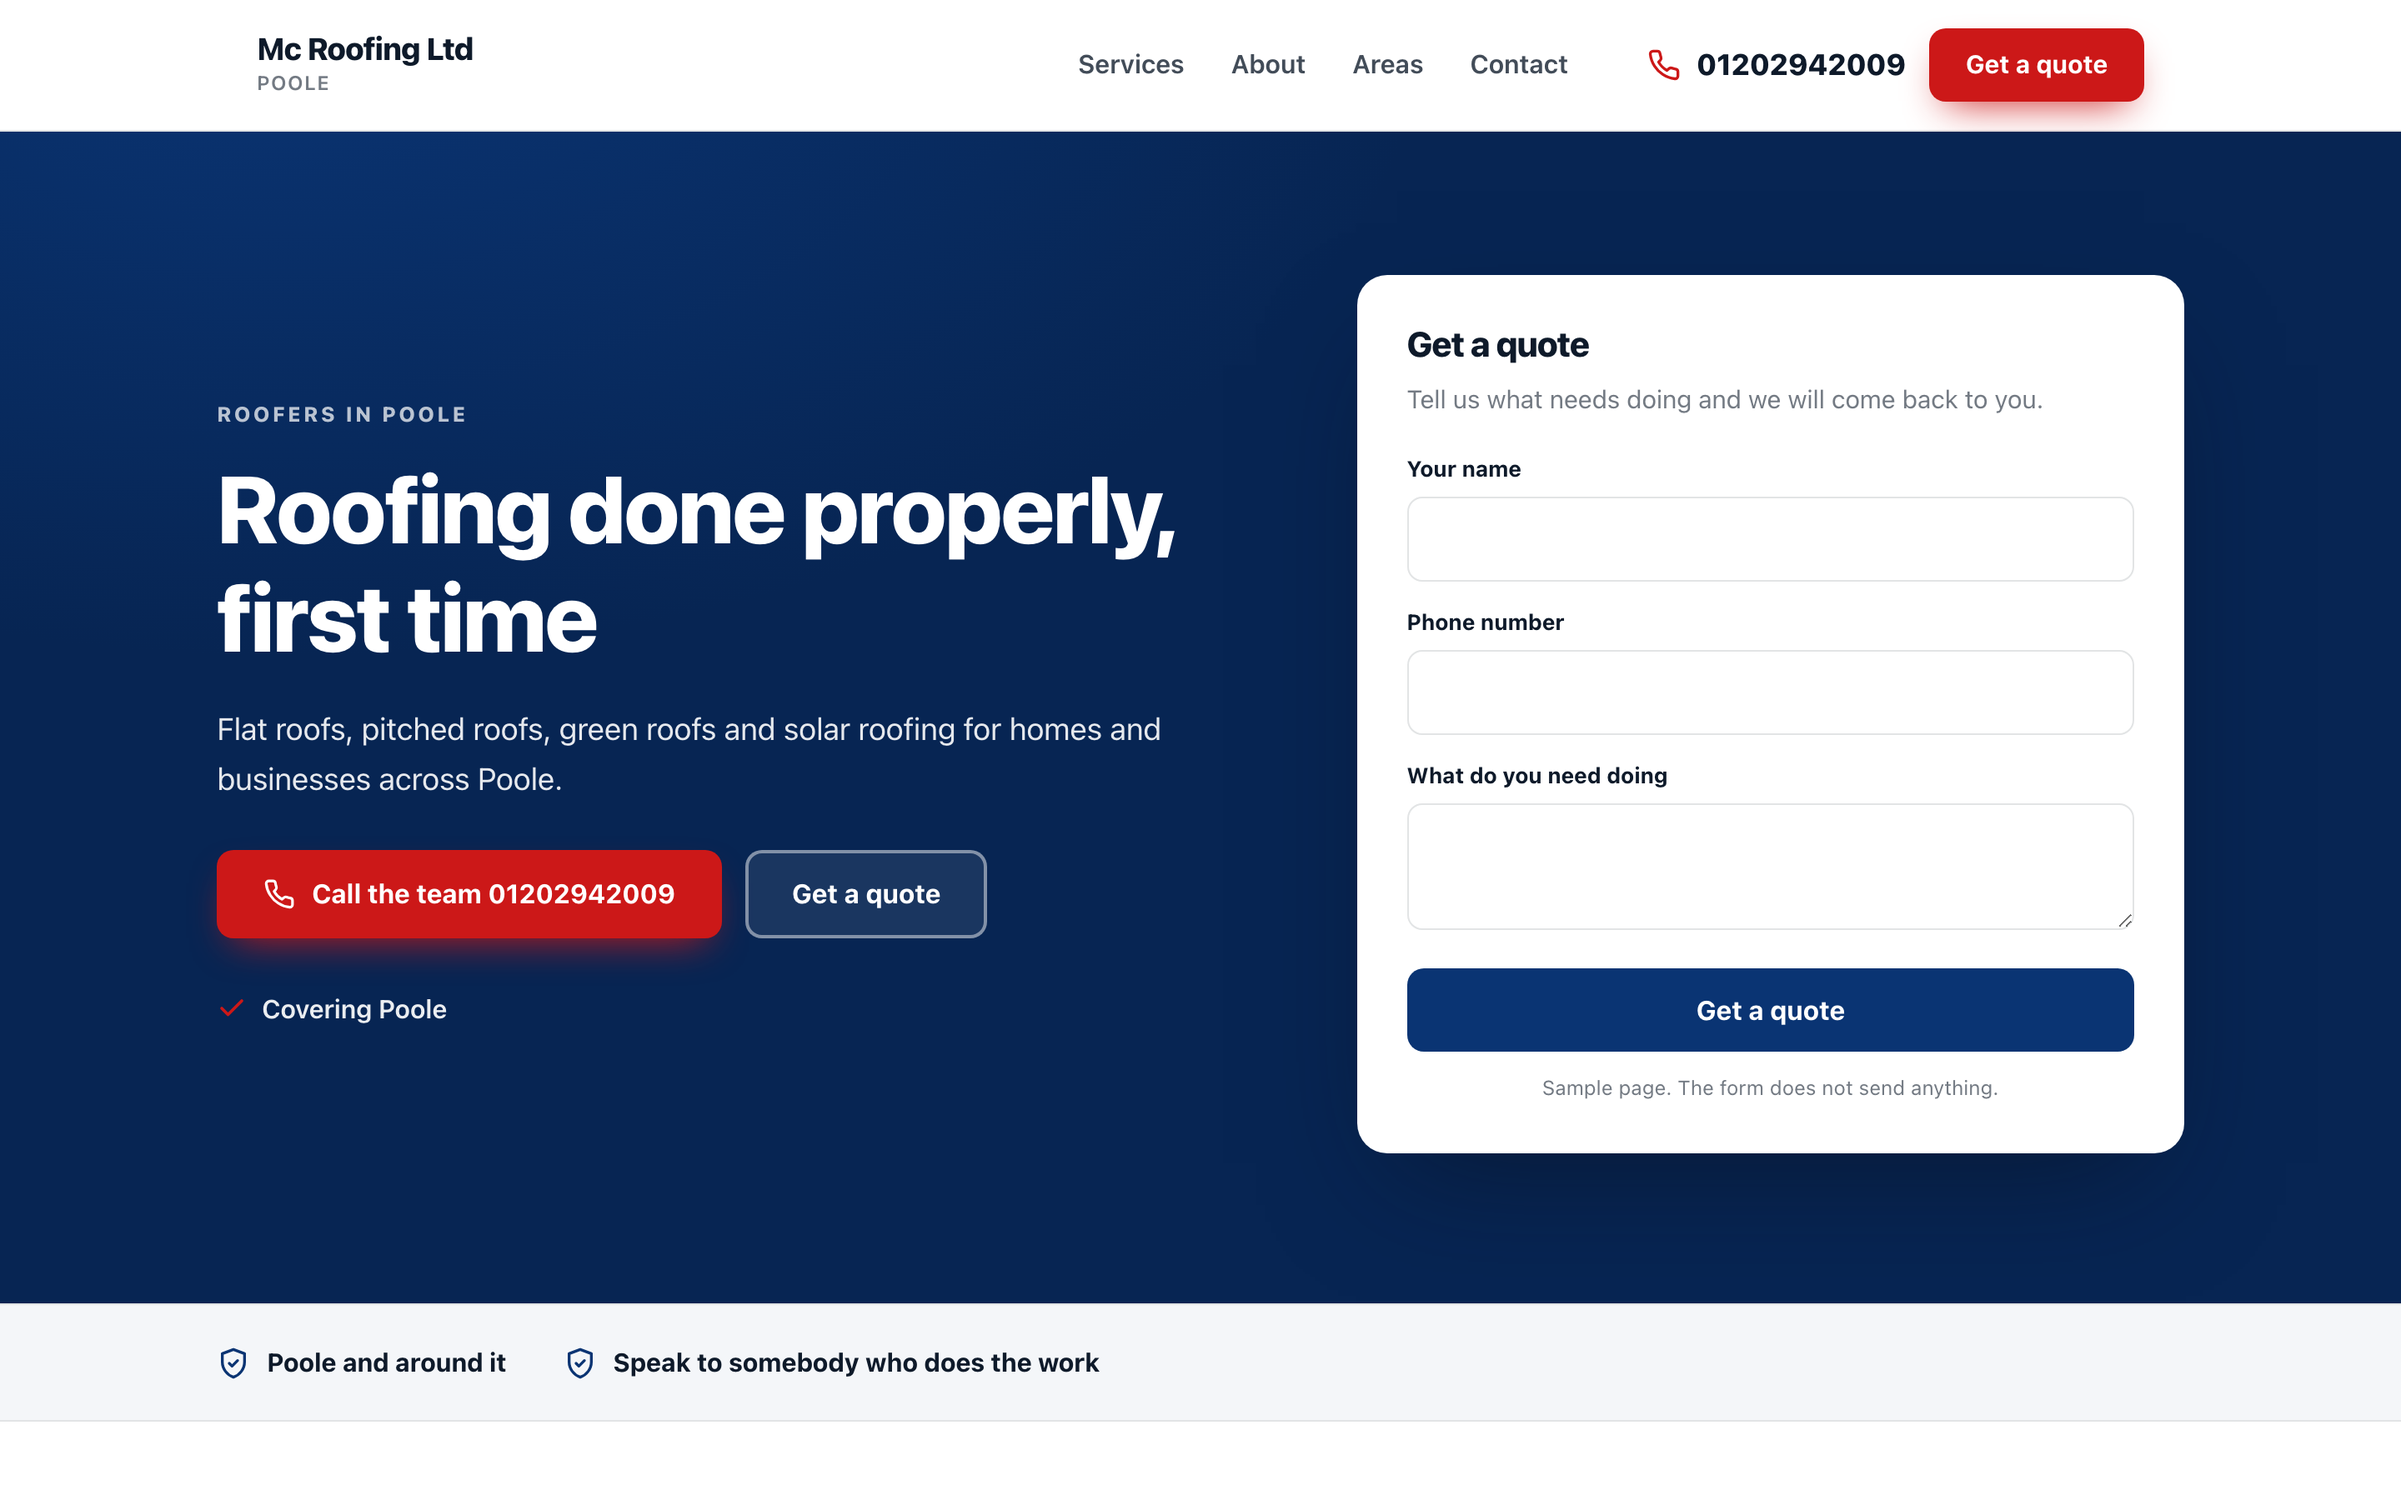
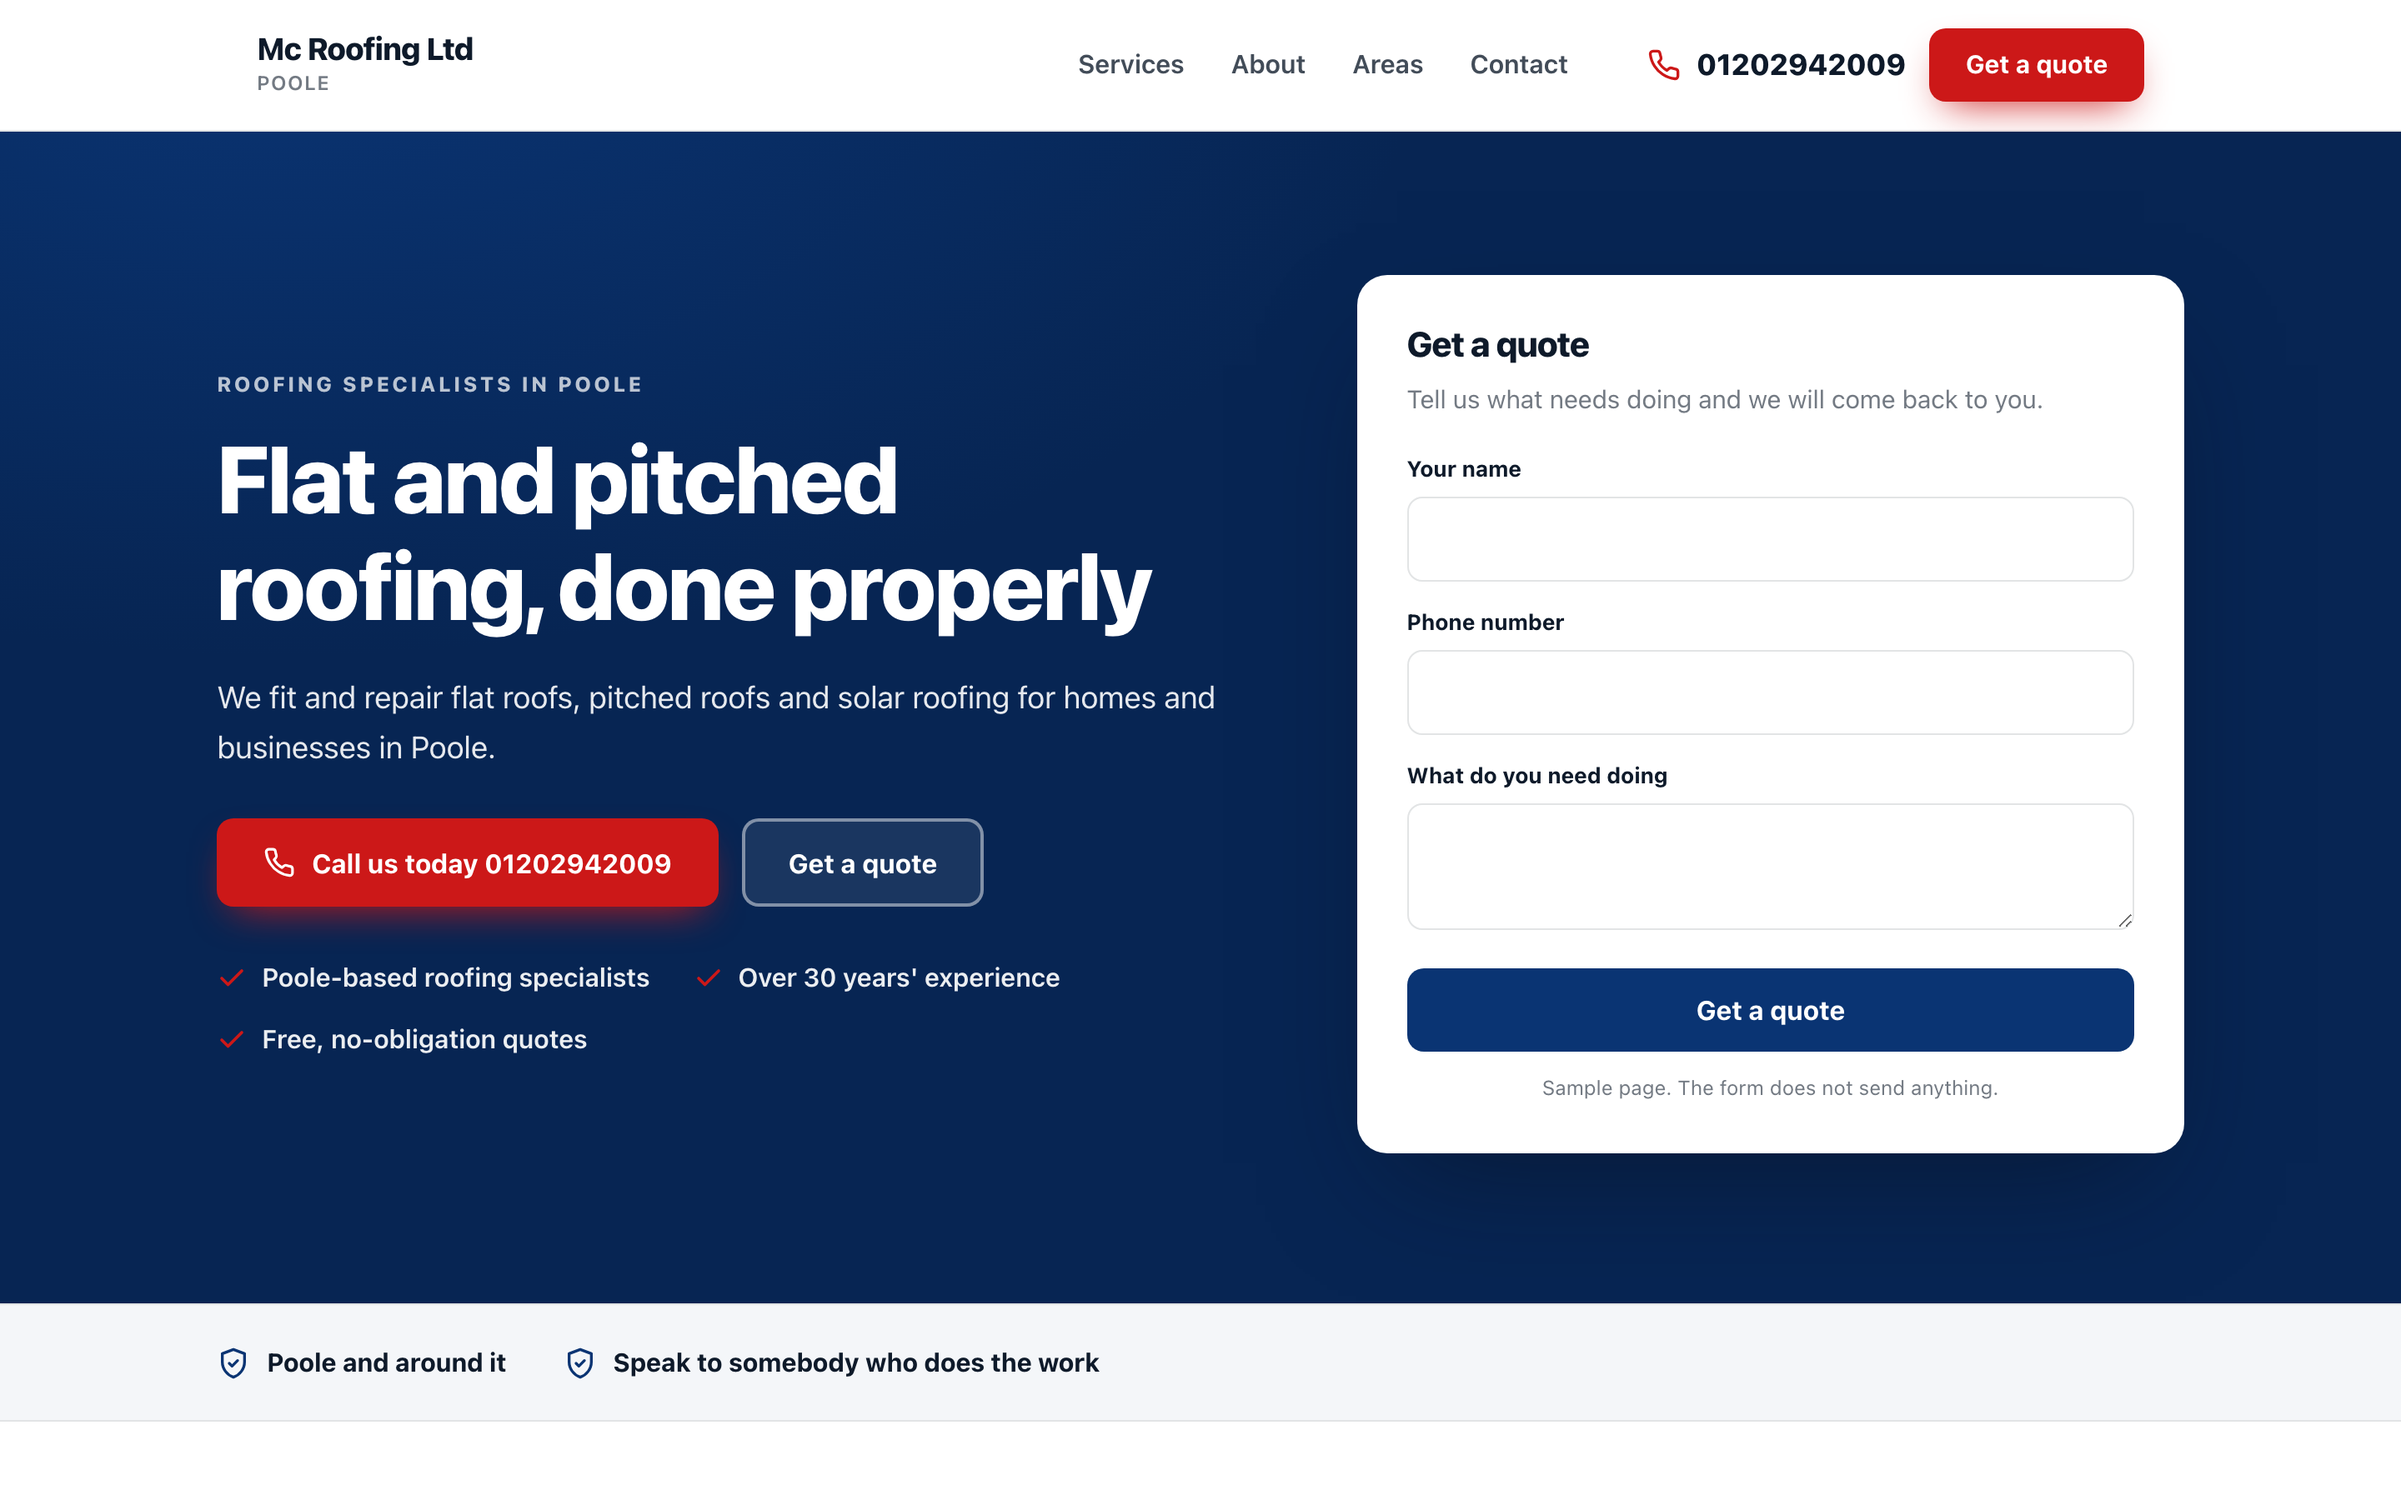
Sample homepage for Mc Roofing Ltd

Changed region(s): [[0.0938, 0.2489, 0.5, 0.7156]]

diff --git a/docs/bddf1393a7/index.html b/docs/bddf1393a7/index.html
@@ -6,11 +6,11 @@
 <meta name="robots" content="noindex,nofollow">
 <meta name="aso-build" content="">
 <title>Mc Roofing Ltd sample homepage</title>
-<meta name="description" content="Flat roofs, pitched roofs, green roofs and solar roofing for homes and businesses across Poole.">
+<meta name="description" content="We fit and repair flat roofs, pitched roofs and solar roofing for homes and businesses in Poole.">
 <link rel="canonical" href="https://markygff.github.io/aso-mockups/bddf1393a7/">
 <meta property="og:type" content="website">
 <meta property="og:title" content="Mc Roofing Ltd sample homepage">
-<meta property="og:description" content="Flat roofs, pitched roofs, green roofs and solar roofing for homes and businesses across Poole.">
+<meta property="og:description" content="We fit and repair flat roofs, pitched roofs and solar roofing for homes and businesses in Poole.">
 <meta property="og:url" content="https://markygff.github.io/aso-mockups/bddf1393a7/">
 <style>
 :root{
@@ -139,15 +139,15 @@ p{margin:0}
   <div class="hero-plain"></div>
   <div class="wrap hero-in">
     <div>
-      <p class="eyebrow">Roofers in Poole</p>
-      <h1>Roofing done properly, first time</h1>
-      <p class="hero-sub">Flat roofs, pitched roofs, green roofs and solar roofing for homes and businesses across Poole.</p>
+      <p class="eyebrow">Roofing specialists in Poole</p>
+      <h1>Flat and pitched roofing, done properly</h1>
+      <p class="hero-sub">We fit and repair flat roofs, pitched roofs and solar roofing for homes and businesses in Poole.</p>
       <div class="hero-actions">
-        <span class="btn btn-accent"><svg viewBox="0 0 24 24" fill="none" stroke="currentColor" stroke-width="2" stroke-linecap="round" stroke-linejoin="round" aria-hidden="true"><path d="M22 16.9v3a2 2 0 0 1-2.2 2 19.8 19.8 0 0 1-8.6-3.1 19.5 19.5 0 0 1-6-6 19.8 19.8 0 0 1-3.1-8.7A2 2 0 0 1 4.1 2h3a2 2 0 0 1 2 1.7c.1 1 .4 1.9.7 2.8a2 2 0 0 1-.5 2.1L8.1 9.9a16 16 0 0 0 6 6l1.3-1.2a2 2 0 0 1 2.1-.5c.9.3 1.8.6 2.8.7a2 2 0 0 1 1.7 2z"/></svg>Call the team 01202942009</span>
+        <span class="btn btn-accent"><svg viewBox="0 0 24 24" fill="none" stroke="currentColor" stroke-width="2" stroke-linecap="round" stroke-linejoin="round" aria-hidden="true"><path d="M22 16.9v3a2 2 0 0 1-2.2 2 19.8 19.8 0 0 1-8.6-3.1 19.5 19.5 0 0 1-6-6 19.8 19.8 0 0 1-3.1-8.7A2 2 0 0 1 4.1 2h3a2 2 0 0 1 2 1.7c.1 1 .4 1.9.7 2.8a2 2 0 0 1-.5 2.1L8.1 9.9a16 16 0 0 0 6 6l1.3-1.2a2 2 0 0 1 2.1-.5c.9.3 1.8.6 2.8.7a2 2 0 0 1 1.7 2z"/></svg>Call us today 01202942009</span>
         <span class="btn btn-ghost">Get a quote</span>
       </div>
       <ul class="hero-bullets">
-<li><svg viewBox="0 0 24 24" fill="none" stroke="currentColor" stroke-width="2.4" stroke-linecap="round" stroke-linejoin="round" aria-hidden="true"><path d="M20 6 9 17l-5-5"/></svg><span>Covering Poole</span></li>      </ul>
+<li><svg viewBox="0 0 24 24" fill="none" stroke="currentColor" stroke-width="2.4" stroke-linecap="round" stroke-linejoin="round" aria-hidden="true"><path d="M20 6 9 17l-5-5"/></svg><span>Poole-based roofing specialists</span></li><li><svg viewBox="0 0 24 24" fill="none" stroke="currentColor" stroke-width="2.4" stroke-linecap="round" stroke-linejoin="round" aria-hidden="true"><path d="M20 6 9 17l-5-5"/></svg><span>Over 30 years&#39; experience</span></li><li><svg viewBox="0 0 24 24" fill="none" stroke="currentColor" stroke-width="2.4" stroke-linecap="round" stroke-linejoin="round" aria-hidden="true"><path d="M20 6 9 17l-5-5"/></svg><span>Free, no-obligation quotes</span></li>      </ul>
     </div>
     <div class="quote-card">
       <h3>Get a quote</h3>
@@ -173,28 +173,28 @@ p{margin:0}
     <div class="services-head">
       <p class="eyebrow">What we do</p>
       <h2>Mc Roofing Ltd, Poole</h2>
-      <p>Flat roofs, pitched roofs, green roofs and solar roofing for homes and businesses across Poole.</p>
+      <p>We fit and repair flat roofs, pitched roofs and solar roofing for homes and businesses in Poole.</p>
     </div>
     <div class="grid">
       <article class="card">
         <div class="icon"><svg viewBox="0 0 24 24" fill="none" stroke="currentColor" stroke-width="2" stroke-linecap="round" stroke-linejoin="round" aria-hidden="true"><path d="M14.7 6.3a4 4 0 0 0 5.3 5.3l-8 8a3 3 0 0 1-4.2-4.2z"/><path d="m14.7 6.3 3-3"/></svg></div>
-        <h3>Flat Roofs</h3>
-        <p>New flat roofs and repairs, built to last.</p>
+        <h3>Electronic Leak Detection</h3>
+        <p>We track down hidden roof leaks before they cause real damage.</p>
       </article>
       <article class="card">
         <div class="icon"><svg viewBox="0 0 24 24" fill="none" stroke="currentColor" stroke-width="2" stroke-linecap="round" stroke-linejoin="round" aria-hidden="true"><path d="M13 2 4 14h7l-1 8 9-12h-7z"/></svg></div>
-        <h3>Pitched Roofs</h3>
-        <p>Pitched roof installs and repairs done right.</p>
+        <h3>Flat Roofs</h3>
+        <p>We fit and repair flat roofs for homes and businesses in Poole.</p>
       </article>
       <article class="card">
         <div class="icon"><svg viewBox="0 0 24 24" fill="none" stroke="currentColor" stroke-width="2" stroke-linecap="round" stroke-linejoin="round" aria-hidden="true"><path d="M3 10.5 12 3l9 7.5"/><path d="M5 9.5V21h14V9.5"/><path d="M10 21v-6h4v6"/></svg></div>
-        <h3>Electronic Leak Detection</h3>
-        <p>We find the source of a leak before we fix it.</p>
+        <h3>Pitched Roofs</h3>
+        <p>We fit and repair pitched roofs to keep your home watertight.</p>
       </article>
       <article class="card">
         <div class="icon"><svg viewBox="0 0 24 24" fill="none" stroke="currentColor" stroke-width="2" stroke-linecap="round" stroke-linejoin="round" aria-hidden="true"><path d="M4 20 15 9"/><path d="m14 4 6 6-3 3-6-6z"/><path d="m3 15 6 6"/></svg></div>
         <h3>Solar Roofing</h3>
-        <p>Solar roofing fitted alongside your roofing work.</p>
+        <p>We fit solar roofing as part of a new or repaired roof.</p>
       </article>
     </div>
   </div>
